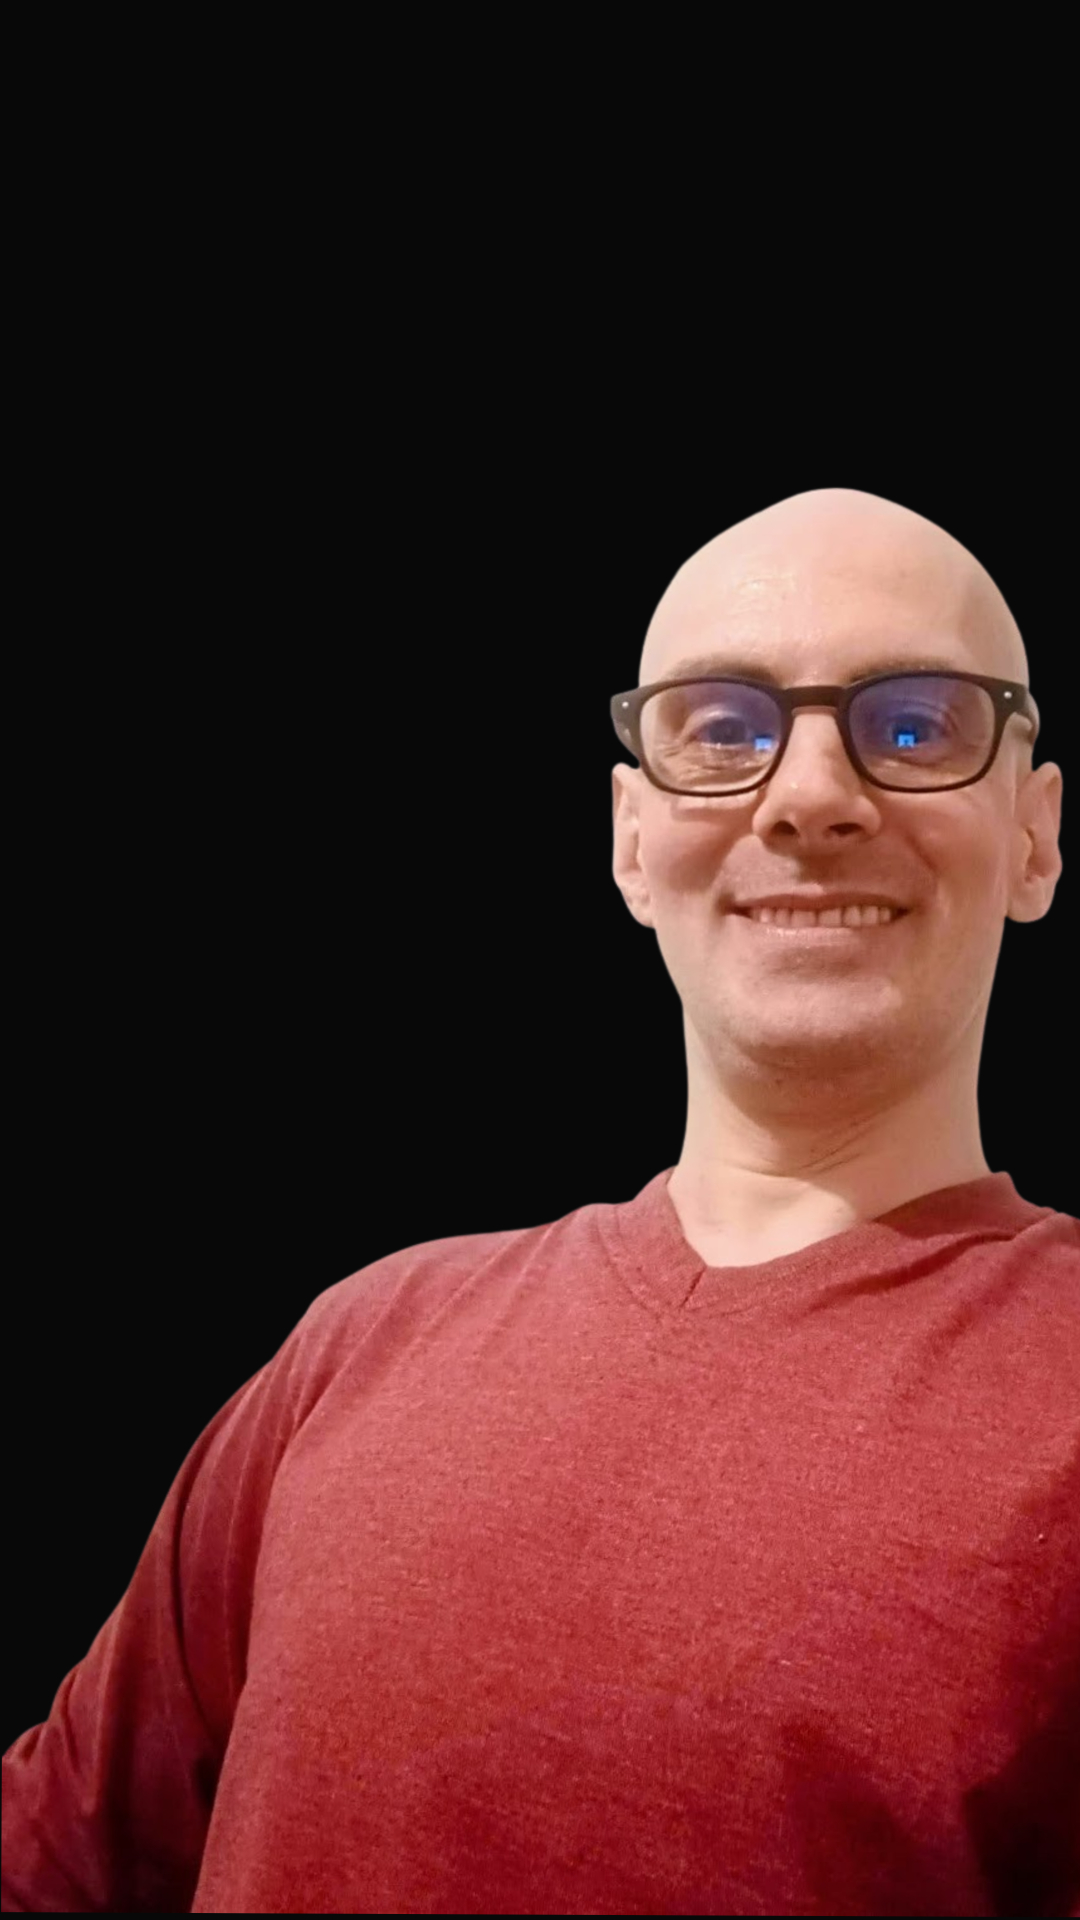
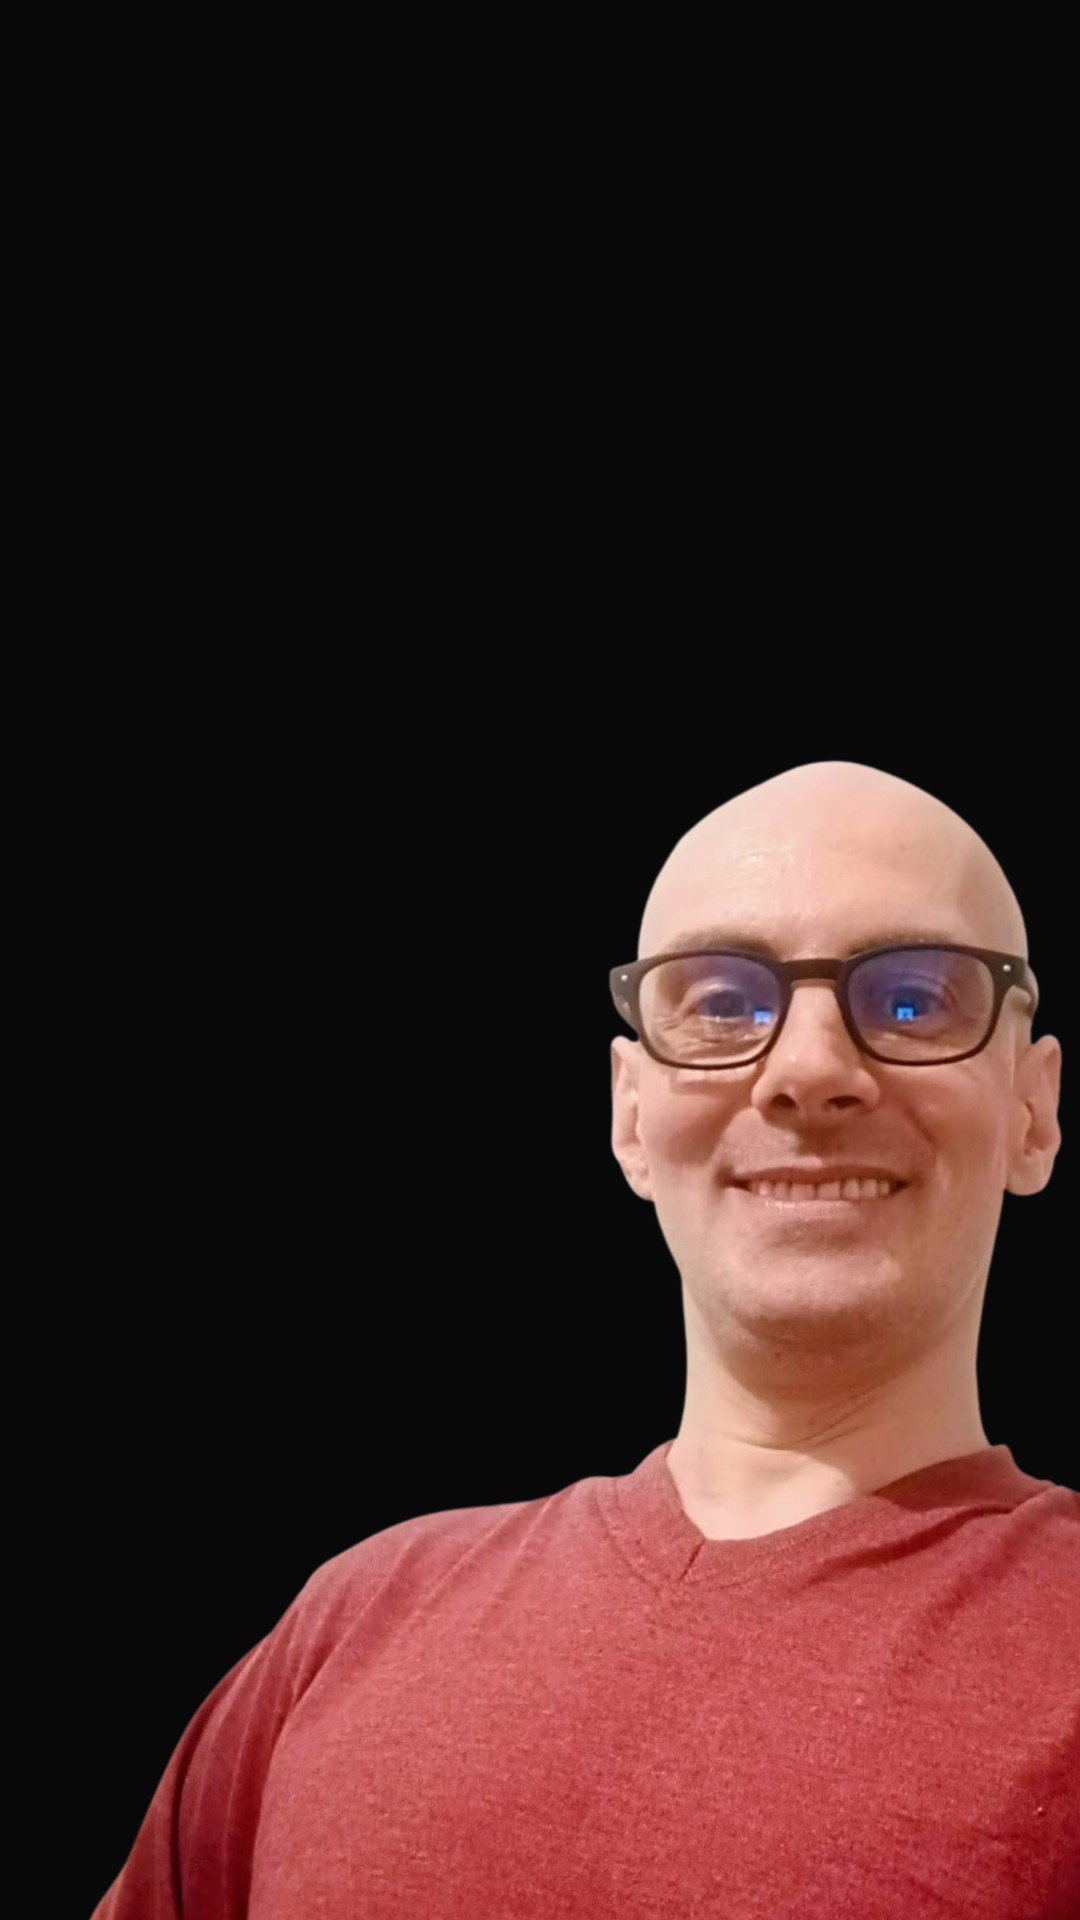
v0.008 : Modification phone-background image

diff --git a/index.html b/index.html
@@ -239,7 +239,7 @@
               </div>
             </div>
             <div class="contact-right">
-              <form action="https://formsubmit.co/contact@cedric-renais.fr" method="POST">
+              <form action="https://formsubmit.co/a6a2b4d66e95d03d0e3420719952997c" method="POST">
                 <input type="hidden" name="_captcha" value="false">
                 <input type="hidden" name="_subject" value="Nouveau contact formulaire">
                 <input type="hidden" name="_next" value="https://cedric-renais.fr/merci.html">

diff --git a/index.js b/index.js
@@ -71,18 +71,3 @@ function openMenu() {
 function closeMenu() {
   sideMenu.style.right = '-200px';
 }
-
-//--------------//
-// CONTACT FORM //
-//--------------//
-
-const form = document.forms['contactForm'];
-const msg = document.getElementById('msg');
-
-form.addEventListener('submit', (event) => {
-  event.preventDefault();
-  msg.innerHTML = 'Message envoyé avec succès.';
-  setTimeout(() => {
-    msg.innerHTML = '';
-  }, 5000);
-});

diff --git a/style.css b/style.css
@@ -509,7 +509,7 @@ nav .fa-solid {
 
   #header {
     background-image: url(./sources/phone-background.jpg);
-    background-position: center;
+    background-position: 50% 25%;
   }
 
   .logo img {
